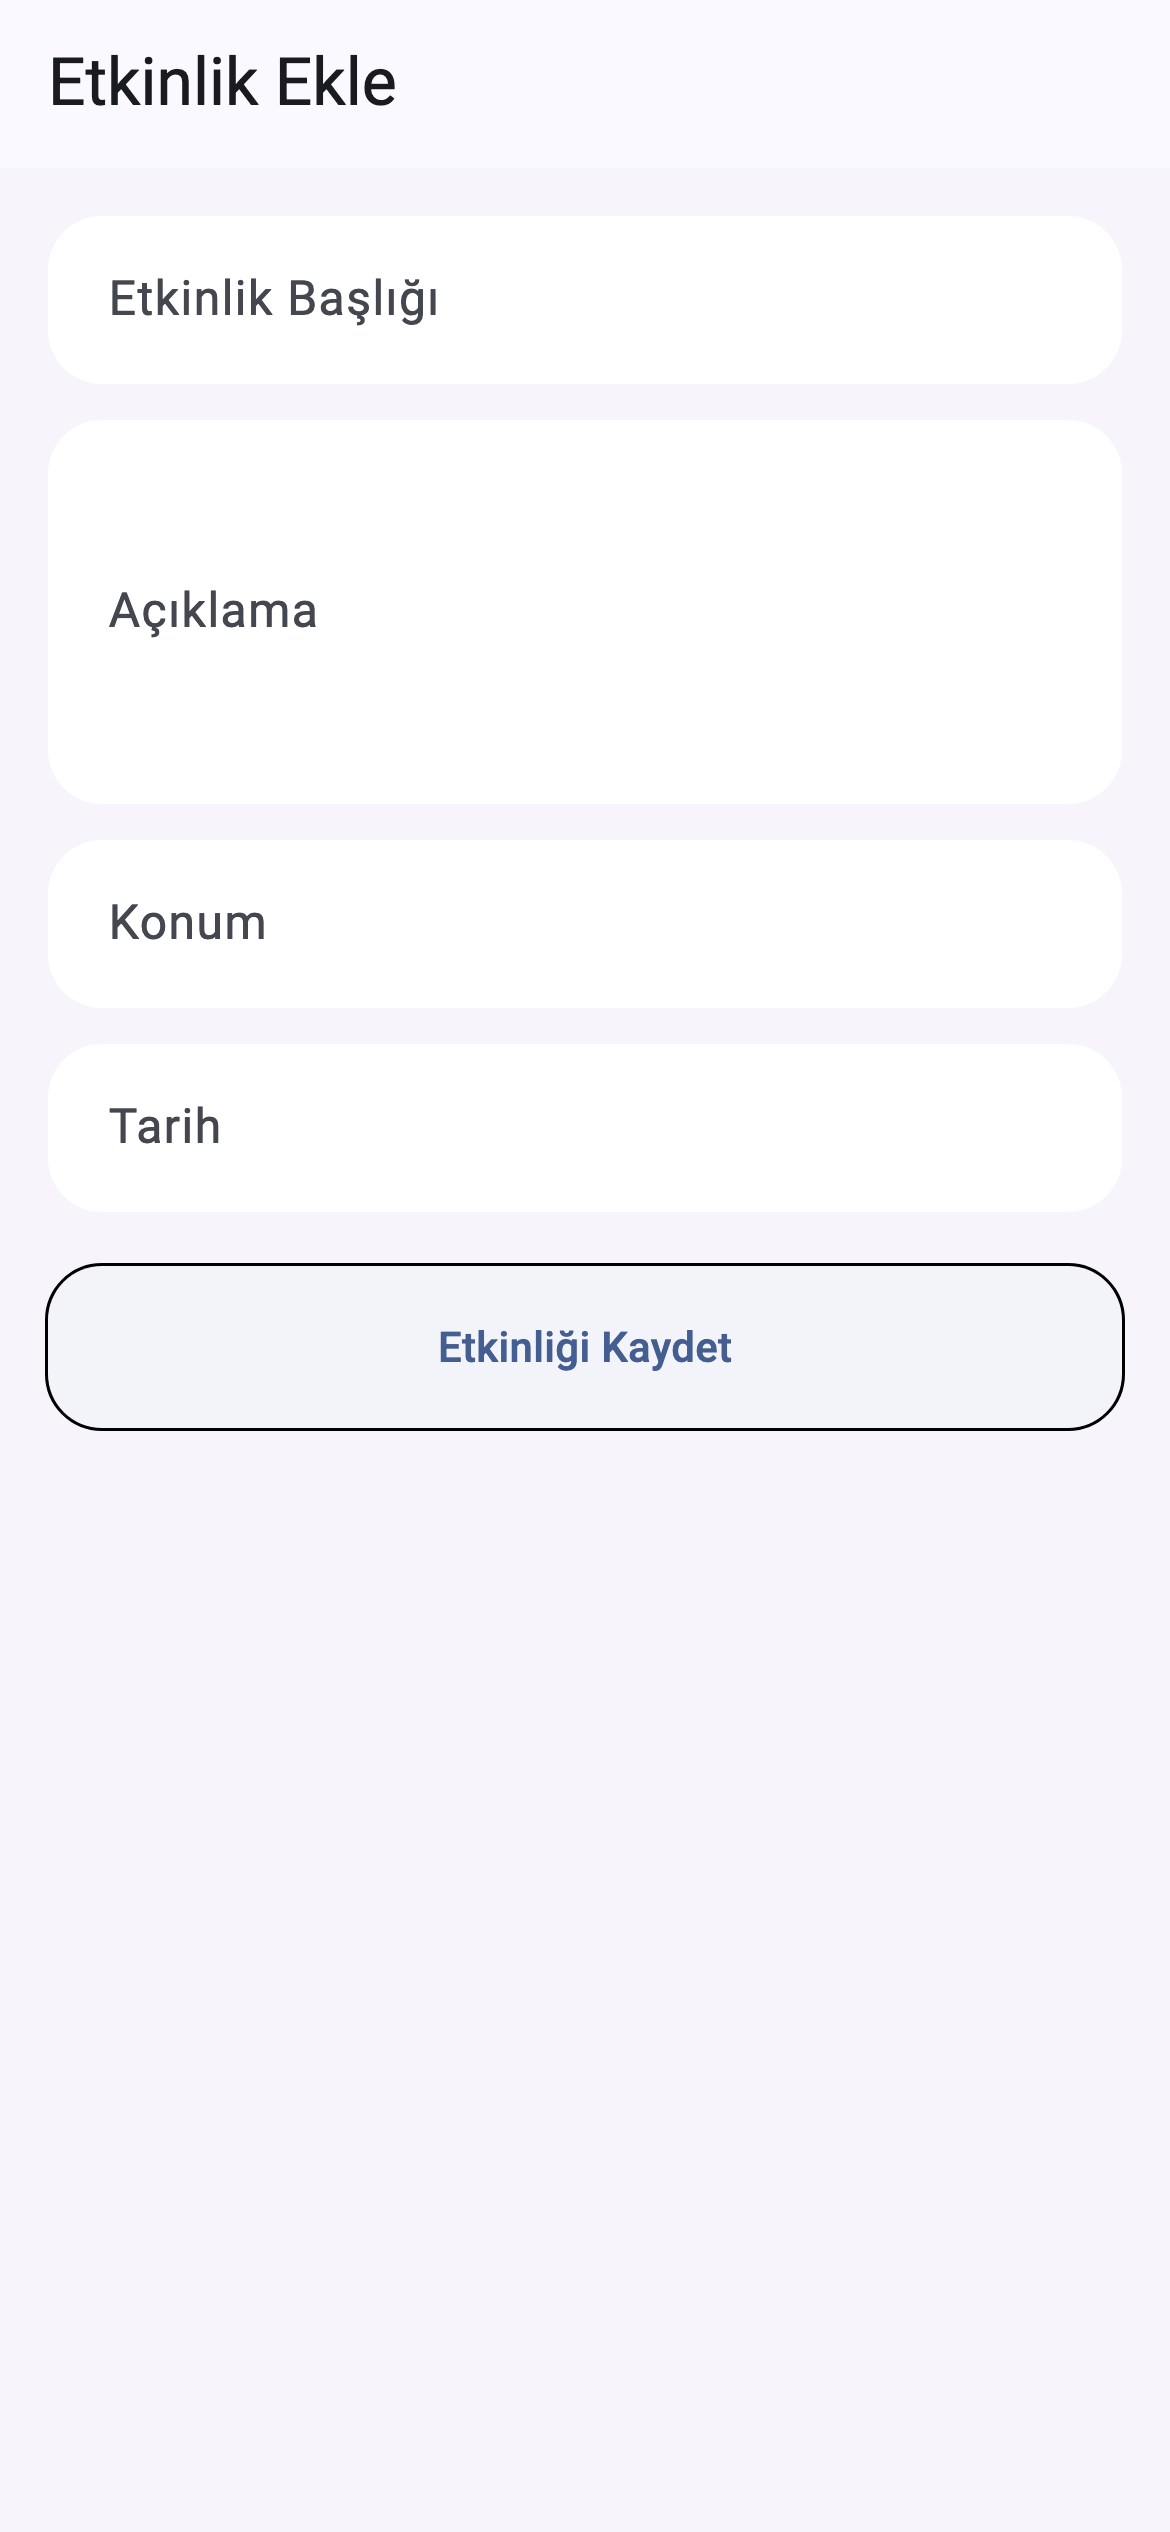
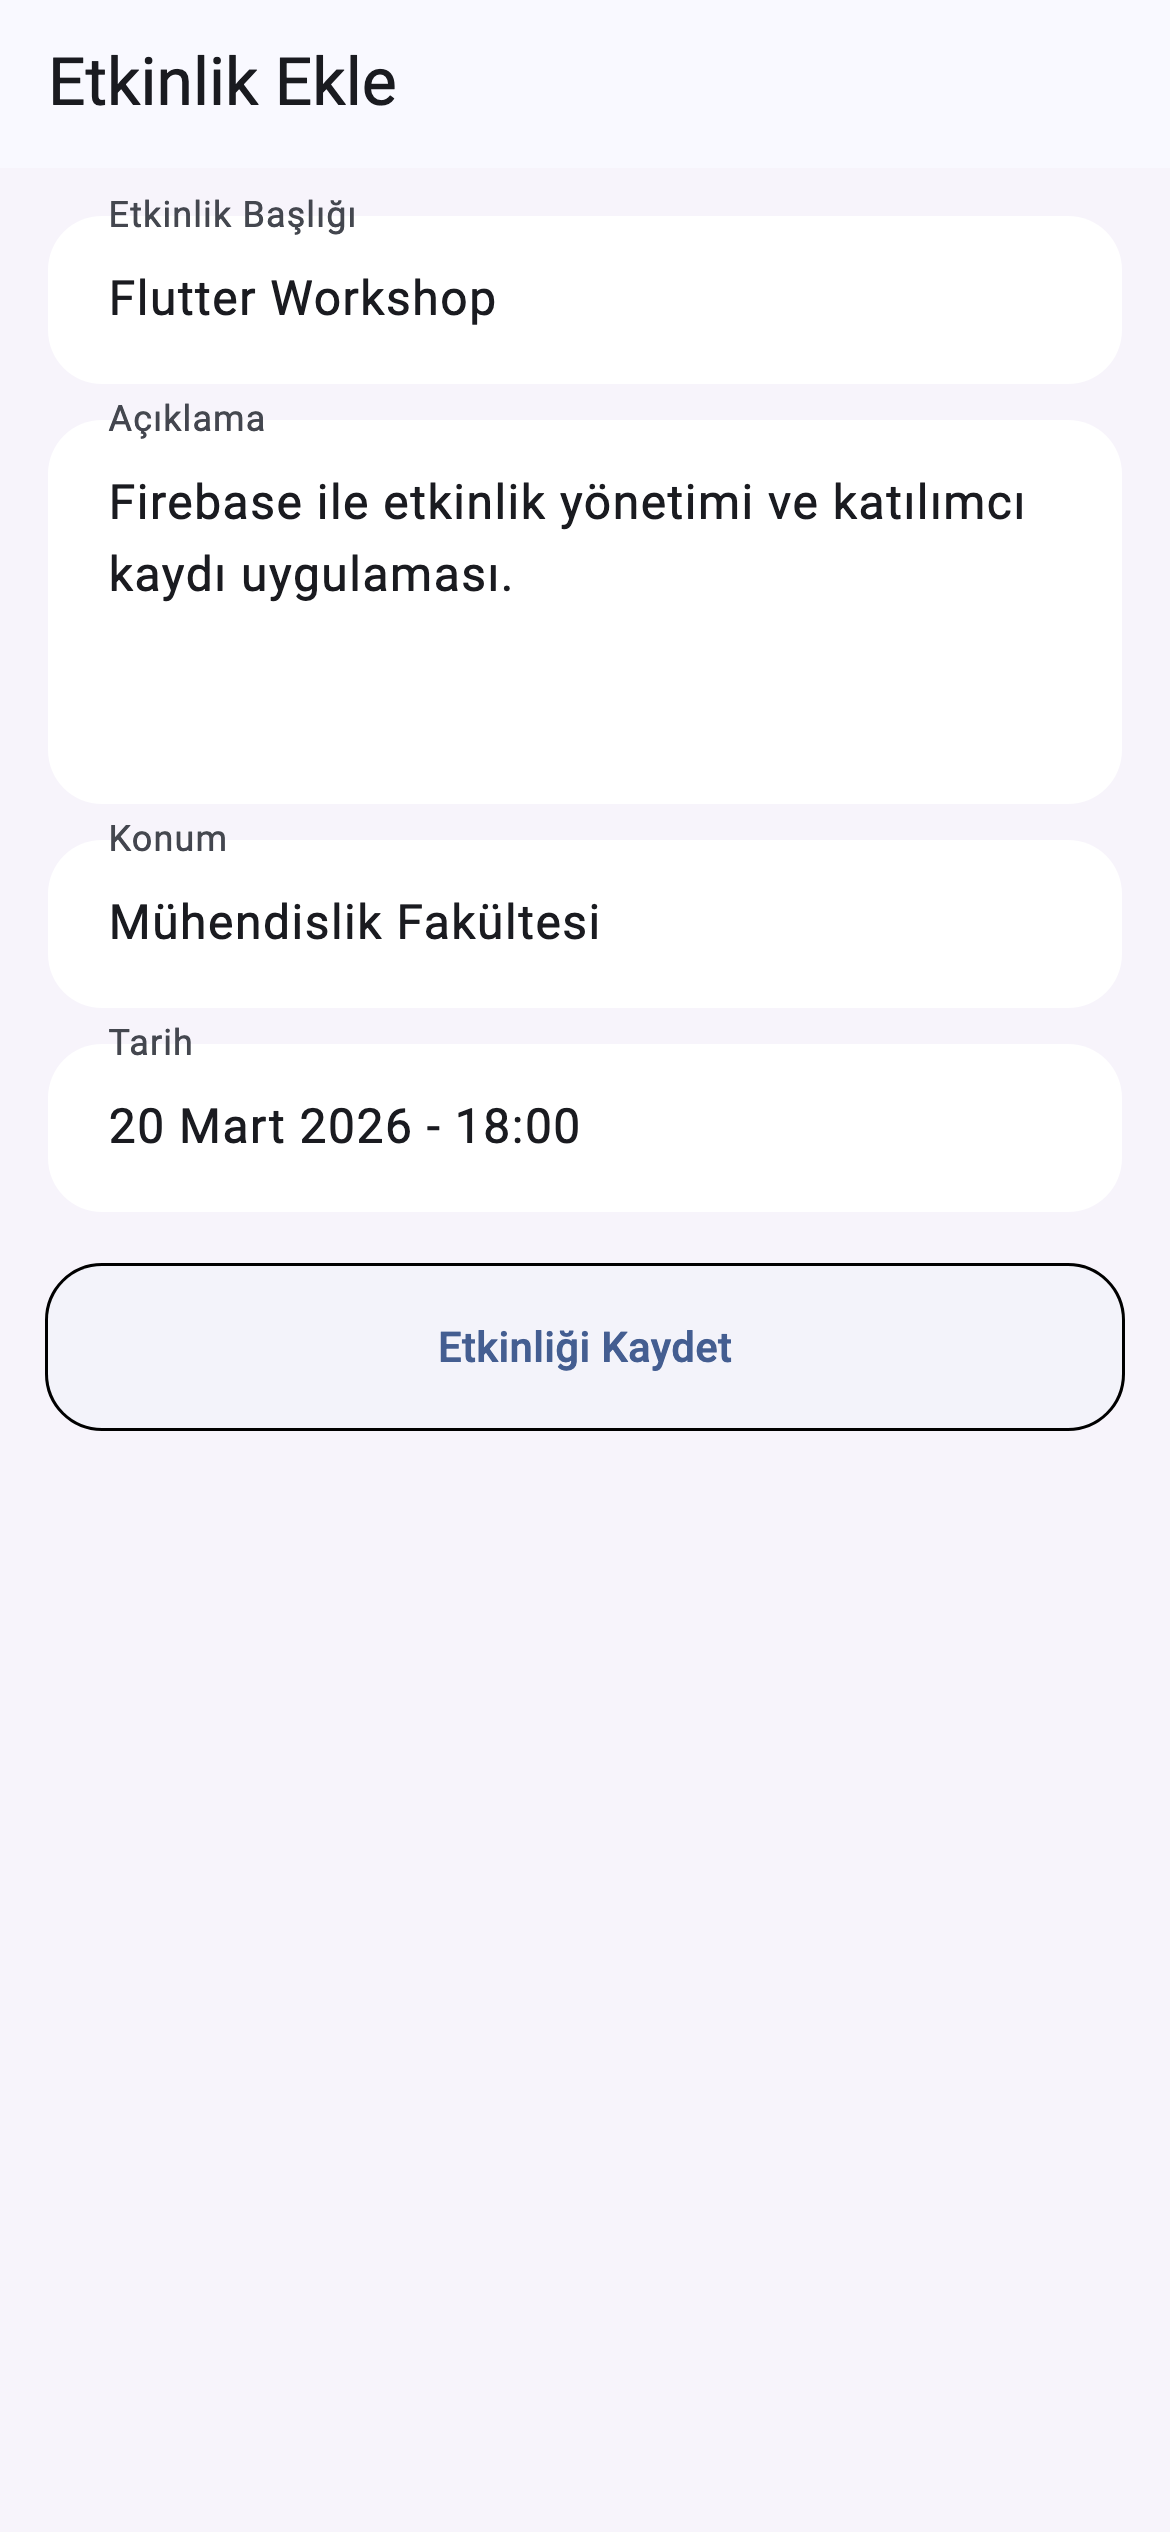
Use richer README app screenshots

diff --git a/README.md b/README.md
@@ -13,9 +13,8 @@ This project was developed to improve Flutter, Firebase, and mobile application 
 ## Screenshots
 
 <p align="center">
-  <img src="docs/screenshots/login_screen.png" alt="Login screen" width="220" />
-  <img src="docs/screenshots/register_screen.png" alt="Register screen" width="220" />
-  <img src="docs/screenshots/profile_setup_screen.png" alt="Profile setup screen" width="220" />
+  <img src="docs/screenshots/home_dashboard.png" alt="Home dashboard screen" width="220" />
+  <img src="docs/screenshots/event_feed.png" alt="Event feed screen" width="220" />
   <img src="docs/screenshots/add_event_screen.png" alt="Add event screen" width="220" />
 </p>
 